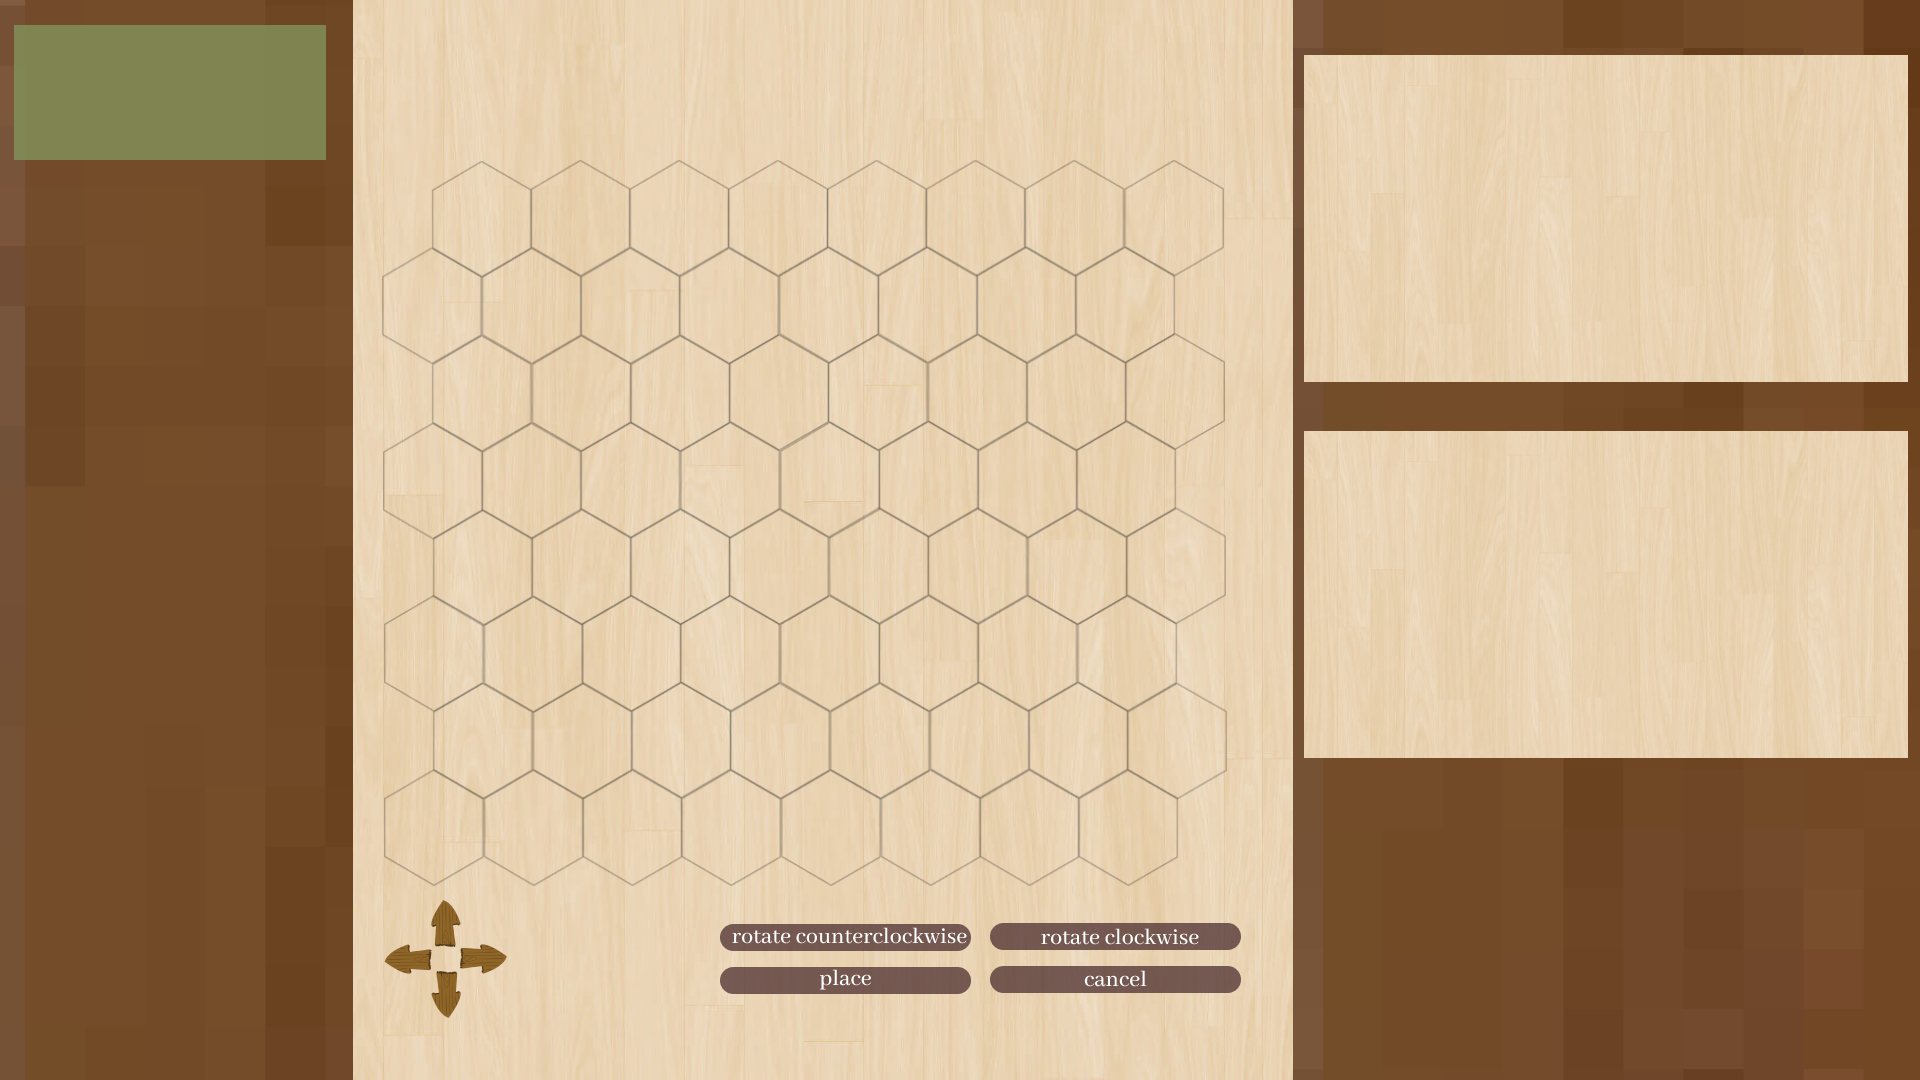
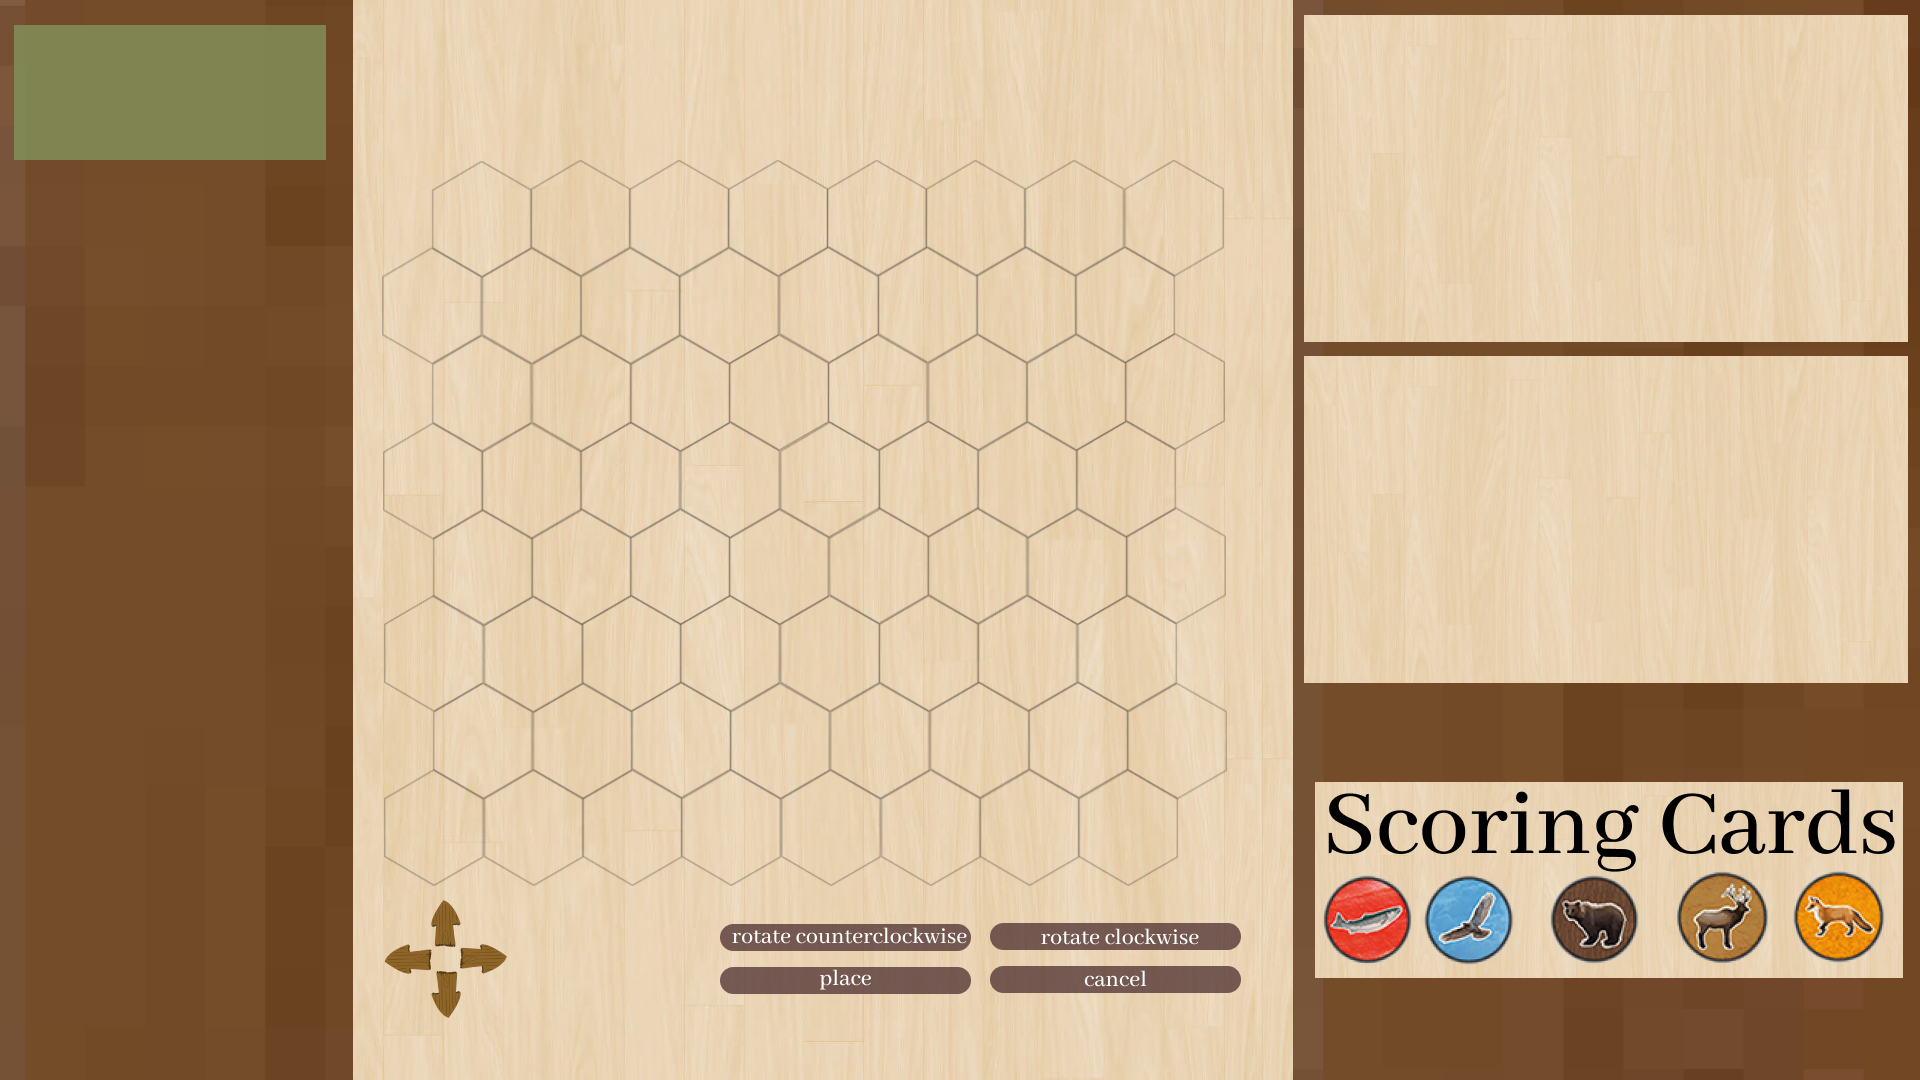
Game Panel Buttons

Changed region(s): [[0.6562, 0.6111, 1.0, 0.9167], [0.6562, 0.3056, 1.0, 0.3972], [0.6562, 0.0, 1.0, 0.0611]]

diff --git a/src/main/java/Graphics/GamePanel.java b/src/main/java/Graphics/GamePanel.java
@@ -29,11 +29,15 @@ public class GamePanel extends JPanel implements MouseListener{
 	public static BufferedImage elkScoringCard, foxScoringCard, salmonScoringCard, bearScoringCard, hawkScoringCard;
 	public static BufferedImage elkAnimalToken, foxAnimalToken, salmonAnimalToken, bearAnimalToken, hawkAnimalToken;
 	public static BufferedImage st1IndividualTop, st1IndividualRight, st1IndividualLeft, st2IndividualTop, st2IndividualRight, st2IndividualLeft, st3IndividualTop, st3IndividualRight, st3IndividualLeft, st4IndividualTop, st4IndividualRight, st4IndividualLeft, st5IndividualTop, st5IndividualRight, st5IndividualLeft;
+	private BufferedImage close, scoringCardsBackground;
+	private boolean scoringCardsPressed = false;
 
 	public GamePanel(int playerCount, CascadiaFrame frame) {
 		try {
+			close = ImageIO.read(Objects.requireNonNull(GamePanel.class.getResource("/Images/Screens/close.png")));
 			background = ImageIO.read(Objects.requireNonNull(GamePanel.class.getResource("/Images/Screens/GameBoard.png")));
 			ntButtons = ImageIO.read(Objects.requireNonNull(GamePanel.class.getResource("/Images/Screens/buttons.png")));
+			scoringCardsBackground = ImageIO.read(Objects.requireNonNull(GamePanel.class.getResource("/Images/Screens/Scoring Cards Background.png")));
 			System.out.println("wha");
 
 			Tile1 = ImageIO.read(Objects.requireNonNull(GamePanel.class.getResource("/Images/Tiles/Tile 1.png")));
@@ -135,10 +139,10 @@ public class GamePanel extends JPanel implements MouseListener{
 
 
 			elkScoringCard = ImageIO.read(Objects.requireNonNull(GamePanel.class.getResource("/Images/Scoring Cards/elk-large.jpg")));
-			salmonScoringCard = ImageIO.read(Objects.requireNonNull(GamePanel.class.getResource("/Images/Scoring Cards/salmon-large.png")));
-			foxScoringCard = ImageIO.read(Objects.requireNonNull(GamePanel.class.getResource("/Images/Scoring Cards/fox-large.png")));
-			hawkScoringCard = ImageIO.read(Objects.requireNonNull(GamePanel.class.getResource("/Images/Scoring Cards/hawk-large.png")));
-			bearScoringCard = ImageIO.read(Objects.requireNonNull(GamePanel.class.getResource("/Images/Scoring Cards/bear-large.png")));
+			salmonScoringCard = ImageIO.read(Objects.requireNonNull(GamePanel.class.getResource("/Images/Scoring Cards/salmon-large.jpg")));
+			foxScoringCard = ImageIO.read(Objects.requireNonNull(GamePanel.class.getResource("/Images/Scoring Cards/fox-large.jpg")));
+			hawkScoringCard = ImageIO.read(Objects.requireNonNull(GamePanel.class.getResource("/Images/Scoring Cards/hawk-large.jpg")));
+			bearScoringCard = ImageIO.read(Objects.requireNonNull(GamePanel.class.getResource("/Images/Scoring Cards/bear-large.jpg")));
 			System.out.println("wha5");
 
 			elkAnimalToken = ImageIO.read(Objects.requireNonNull(GamePanel.class.getResource("/Images/Animal Tokens/elk.png")));
@@ -194,19 +198,38 @@ public class GamePanel extends JPanel implements MouseListener{
 		drawBackground(g);
 		//drawTiles(g);
 		g.drawImage(test, 800,460,100,116,null);
-		if(canUseToken == true) {
+		if(canUseToken) {
 			drawNatureTokenMenu(g);
 		}
 		drawPlayerBoard(g, turn);
 
-		if(rotateRight == true) {
+		if(rotateRight) {
 			rotateImage(g, test, 800, 460, 100, 116, 180);
 			rotateRight = false;
 		}
+		if(scoringCardsPressed){
+			drawScoringCards(g);
+		}
+		else{
+			scoringCardsPressed=false;
+		}
 	}
+	public void drawScoringCards(Graphics g) {
+		g.setColor(Color.WHITE);
+		//g.fillRect(100, 100, 1720, 880);
+		g.drawImage(scoringCardsBackground, 100, 100, 1720, 880, null);
+		g.drawImage(close, 1760, 100,60,60, null);
+		g.drawImage(elkScoringCard, 180, 180, 350, 350, null);
+		g.drawImage(foxScoringCard, 480, 580, 350, 350, null);
+		g.drawImage(hawkScoringCard, 780, 180, 350, 350, null);
+		g.drawImage(bearScoringCard, 1080, 580, 350, 350, null);
+		g.drawImage(salmonScoringCard, 1380, 180, 350, 350, null);
+	}
+
 	public void drawBackground(Graphics g) {
 		g.drawImage(background, 0, 0, 1920, 1080, null);
 		g.drawImage(ntButtons, 34, 917, 281, 123, null);
+
 	}
 
 	public void drawNatureTokenMenu(Graphics g) {
@@ -219,6 +242,7 @@ public class GamePanel extends JPanel implements MouseListener{
 		g.drawString("xd", 100,100);
 
 	}
+
 
 
 	public void mouseClicked(MouseEvent e) {
@@ -270,6 +294,15 @@ public class GamePanel extends JPanel implements MouseListener{
 		}
 		if(x>= 1305 && x <= 1910  && y >= 435 && y <= 755) {
 
+		}
+		if(x>=1314 && x<=1903 && y>=781 && y <= 976) {
+			scoringCardsPressed = true;
+			repaint();
+		}
+
+		if(x>=1760 && x<=1820 && y>=100 && y <= 160 && scoringCardsPressed == true) {
+			scoringCardsPressed = false;
+			repaint();
 		}
 
 	}
